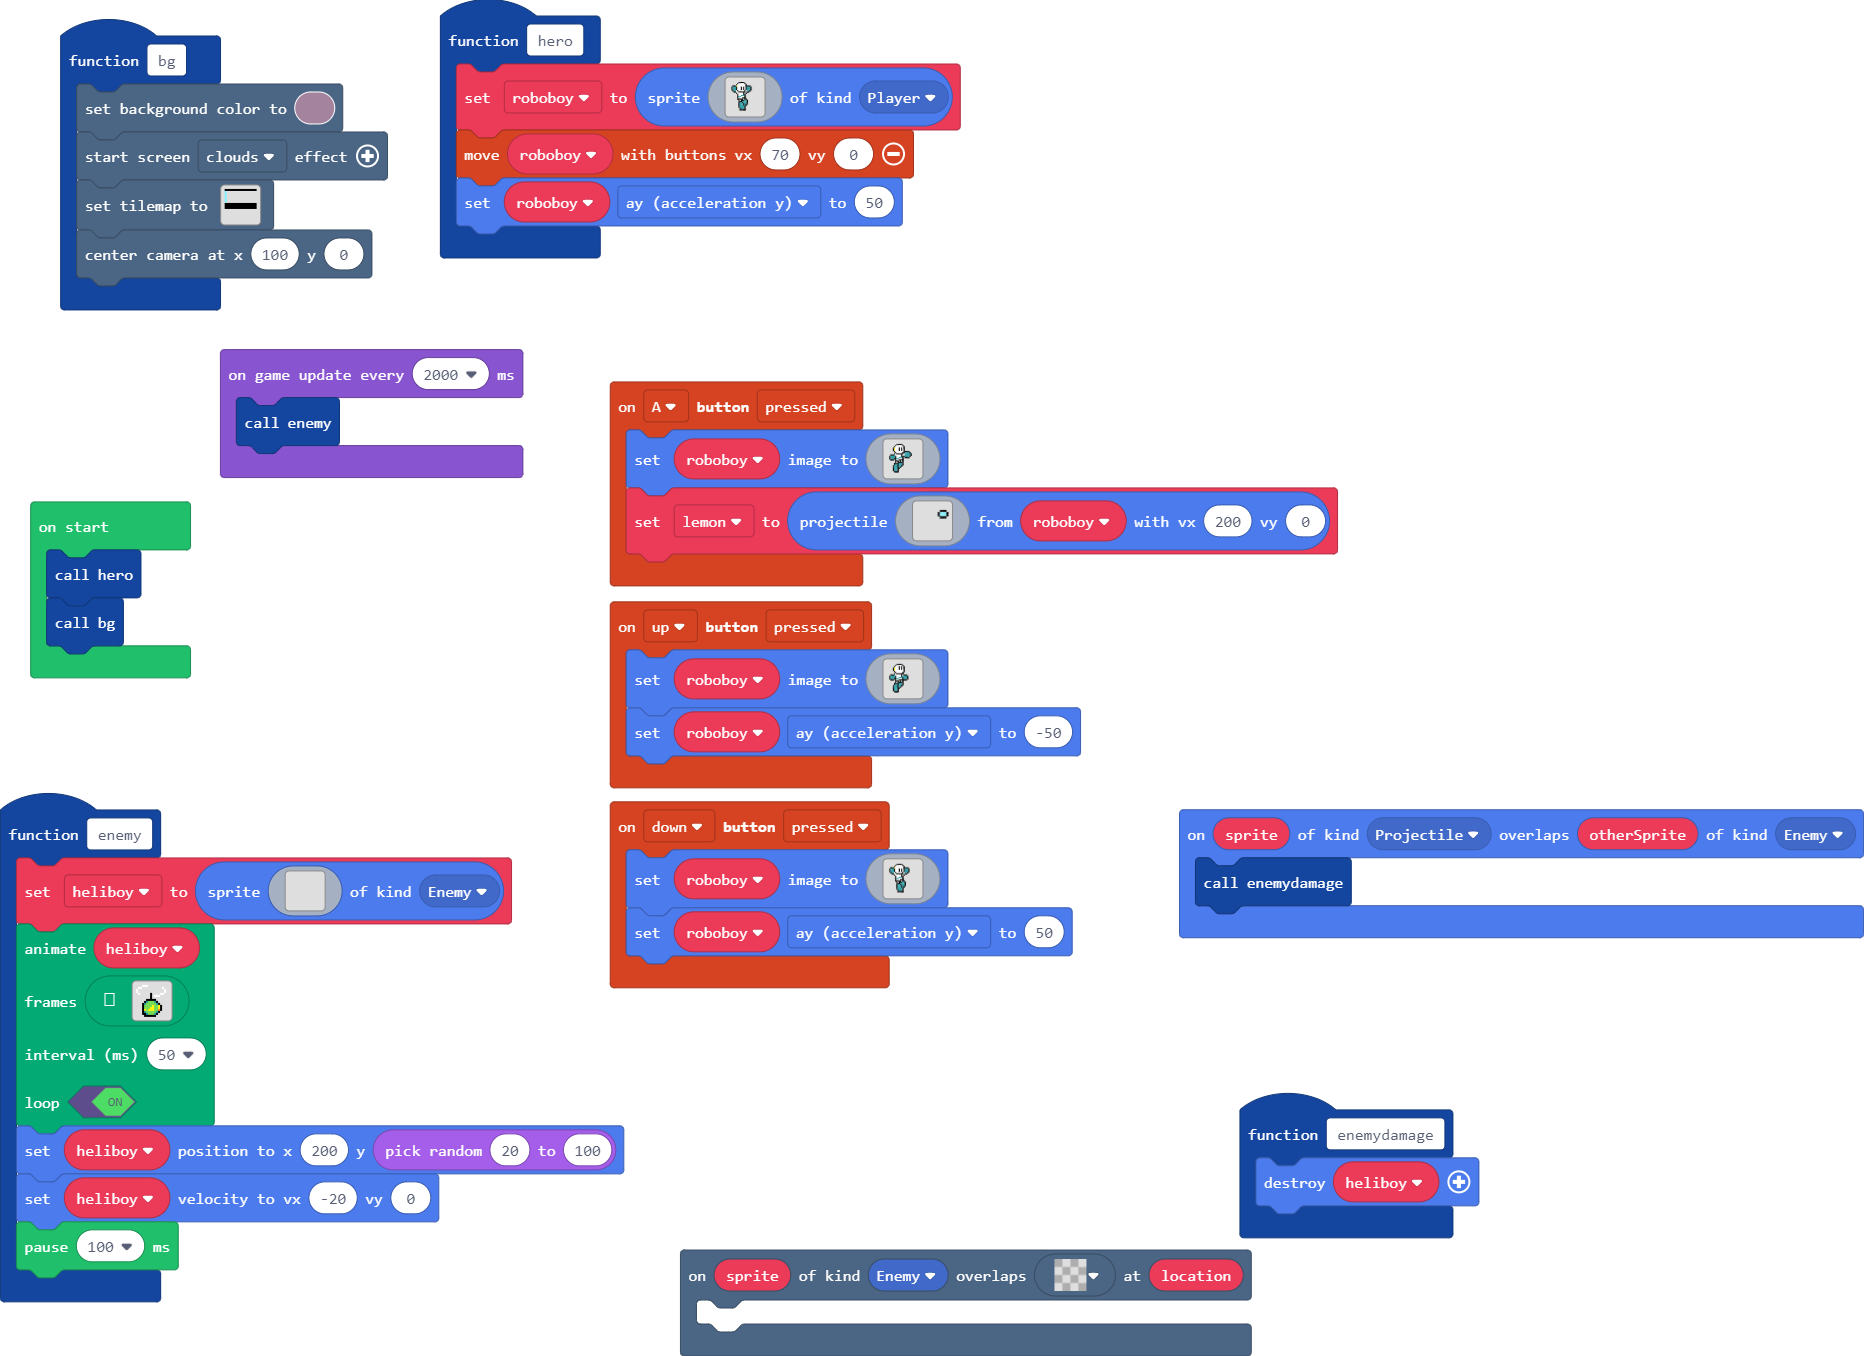
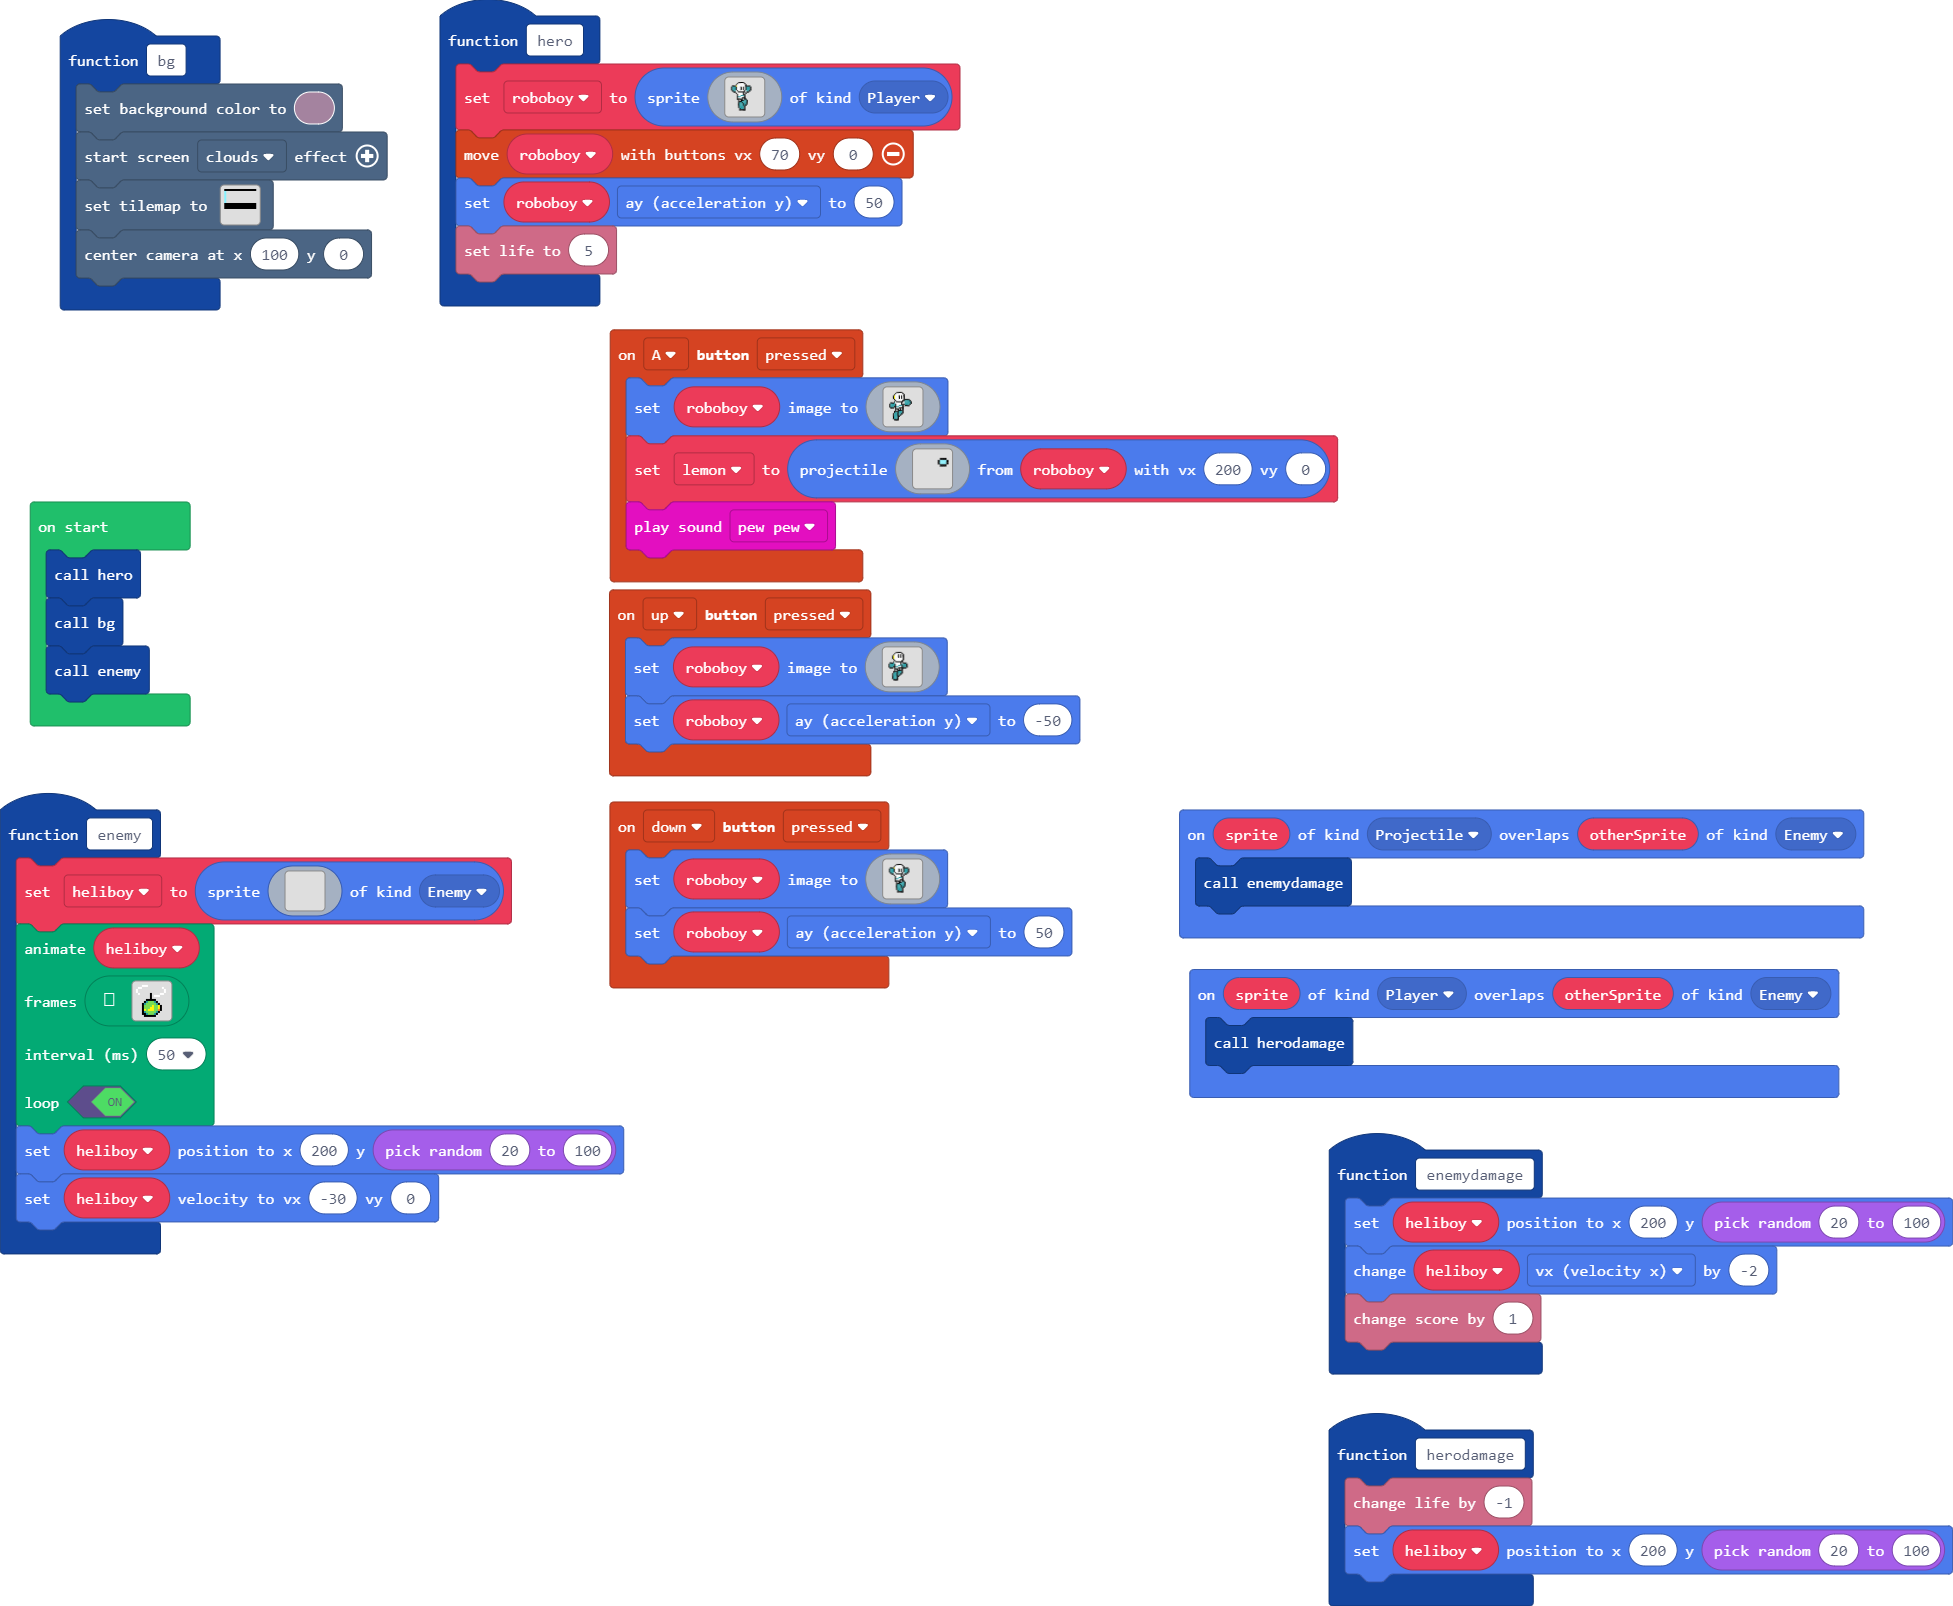
Update main.blocks, main.ts

diff --git a/main.ts b/main.ts
@@ -123,8 +123,9 @@ function bg () {
         ))
     scene.centerCameraAt(100, 0)
 }
-function enemydamage () {
-    heliboy.destroy()
+function herodamage () {
+    info.changeLifeBy(-1)
+    heliboy.setPosition(200, Math.randomRange(20, 100))
 }
 function hero () {
     roboboy = sprites.create(img`
@@ -155,6 +156,7 @@ function hero () {
 `, SpriteKind.Player)
     controller.moveSprite(roboboy, 70, 0)
     roboboy.ay = 50
+    info.setLife(5)
 }
 controller.down.onEvent(ControllerButtonEvent.Pressed, function () {
     roboboy.setImage(img`
@@ -184,9 +186,6 @@ controller.down.onEvent(ControllerButtonEvent.Pressed, function () {
 . . . . . . . . . f f f f f . . . . . . . . . . . . . 
 `)
     roboboy.ay = 50
-})
-scene.onOverlapTile(SpriteKind.Enemy, myTiles.tile0, function (sprite, location) {
-	
 })
 sprites.onOverlap(SpriteKind.Projectile, SpriteKind.Enemy, function (sprite, otherSprite) {
     enemydamage()
@@ -230,6 +229,7 @@ controller.A.onEvent(ControllerButtonEvent.Pressed, function () {
 . . . . . . . . . . . . . . . 
 . . . . . . . . . . . . . . . 
 `, roboboy, 200, 0)
+    music.pewPew.play()
 })
 function enemy () {
     heliboy = sprites.create(img`
@@ -308,8 +308,15 @@ function enemy () {
     true
     )
     heliboy.setPosition(200, Math.randomRange(20, 100))
-    heliboy.setVelocity(-20, 0)
-    pause(100)
+    heliboy.setVelocity(-30, 0)
+}
+sprites.onOverlap(SpriteKind.Player, SpriteKind.Enemy, function (sprite, otherSprite) {
+    herodamage()
+})
+function enemydamage () {
+    heliboy.setPosition(200, Math.randomRange(20, 100))
+    heliboy.vx += -2
+    info.changeScoreBy(1)
 }
 controller.up.onEvent(ControllerButtonEvent.Pressed, function () {
     roboboy.setImage(img`
@@ -345,6 +352,4 @@ let roboboy: Sprite = null
 let heliboy: Sprite = null
 hero()
 bg()
-game.onUpdateInterval(2000, function () {
-    enemy()
-})
+enemy()
